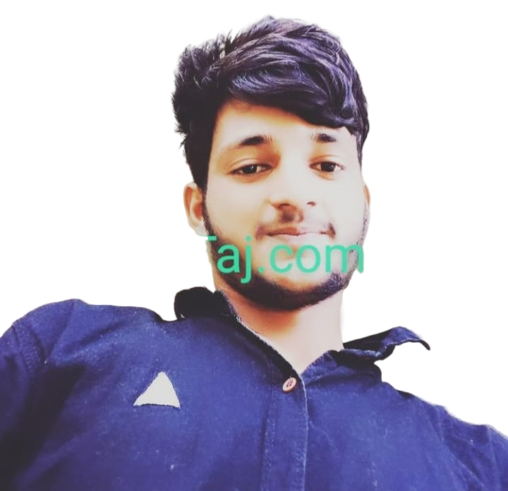
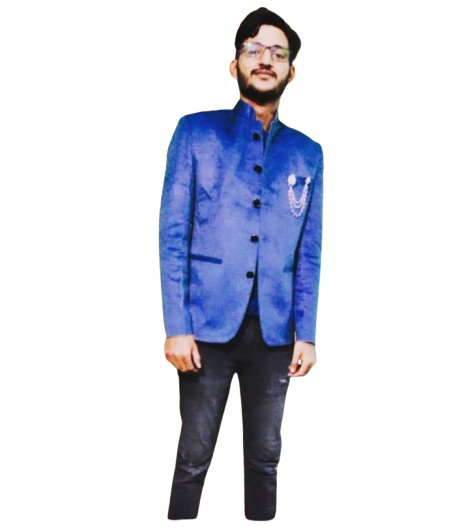
code update

diff --git a/src/component/Contact.jsx b/src/component/Contact.jsx
@@ -1,10 +1,13 @@
 import React, { useState } from 'react'
 import Card from 'react-bootstrap/Card';
-import photo from '../assets/Image1.png'
+import photo from '../assets/Image2.png';
 import { Container, Row, Col } from 'react-bootstrap';
+import { ToastContainer, toast } from 'react-toastify';
+import 'react-toastify/dist/ReactToastify.css';
 import Form from 'react-bootstrap/Form';
 import Button from 'react-bootstrap/Button';
 import '../App.css'
+
 const Contact = () => {
   const[fname,setFname]=useState("");
   const[lname,setLname]=useState("");
@@ -19,58 +22,69 @@ const Contact = () => {
   const handlesubmit=async(e)=>{
     e.preventDefault("");
 
-  const contactdetails={
-    fname,
-    lname,
-    email,
-    password,
-    address1,
-    address2,
-    city,
-    state,
-    zip
-  };
+    const contactdetails={
+      fname,
+      lname,
+      email,
+      password,
+      address1,
+      address2,
+      city,
+      state,
+      zip
+    };
 
-  try{
-    const response = await fetch("http://localhost:5000/submit",{
-      method:"POST",
-      headers: {
-        'Content-Type': 'application/json',
-      },
-      body: JSON.stringify(contactdetails),
-    });
-    if(response.ok){
-      console.log("contact saved");
+    try{
+      const response = await fetch("http://localhost:5000/submit",{
+        method:"POST",
+        headers: {
+          'Content-Type': 'application/json',
+        },
+        body: JSON.stringify(contactdetails),
+      });
+      if(response.ok){
+        toast.success('Contact saved successfully', {
+          position: toast.POSITION.TOP_RIGHT,
+          autoClose: 3000,
+        });
 
-      // for clear form
-      setFname('');
-      setLname('');
-      setEmail('');
-      setPassword('');
-      setAddress1('');
-      setAddress2('');
-      setCity('');
-      setState('');
-      setZip('');
-    } else{
-      console.log("Error saving contact");
+        // Clear form
+        setFname('');
+        setLname('');
+        setEmail('');
+        setPassword('');
+        setAddress1('');
+        setAddress2('');
+        setCity('');
+        setState('');
+        setZip('');
+      } else {
+        toast.error('Error saving contact', {
+          position: toast.POSITION.TOP_RIGHT,
+          autoClose: 3000,
+        });
+      }
     }
-  }
-  catch(error){
-    console.error('Error:', error);
-  }
-};
+    catch(error){
+      console.error('Error:', error);
+      toast.error('Error saving contact', {
+        position: toast.POSITION.TOP_RIGHT,
+        autoClose: 3000,
+      });
+    }
+  };
 
   return (
     <section id="contact" className='bg-dark' style={{ maxWidth: "100%", maxHeight: "100%" }}>
       <Container fluid>
+        <ToastContainer position="top-right" autoClose={3000} />
         <div className='text-danger text-center p-5'>CONTACT</div>
         <div className='text-white text-center mt-1' style={{ fontSize: "45px", fontWeight: "700", fontFamily: "serif" }}>Contact With Me</div>
         <Row className="mt-4">
 
           <Col sm={12} md={5} lg={4}>
             <Card className="card-hover" style={{ width: '23rem', height: "auto", backgroundColor: "#23272b" }}>
-              <Card.Img variant="top" style={{ width: "auto", height: "400px", padding: "15px" }} src={photo} />
+              <Card.Img variant="top" style={{ width: "auto", height: "400px", padding: "20px",borderRadius:"50px"}} src={photo} />
               <Card.Body>
                 <Card.Title className='text-white p-2' style={{fontWeight:"700"}}>MD TAUQUEER MANZAR</Card.Title>
                 <Card.Text className='text-white p-2'>
@@ -179,7 +193,7 @@ const Contact = () => {
               <Form.Group className="mb-4" id="formGridCheckbox">
                 <Form.Check type="checkbox" label="Check me out" />
               </Form.Group>
-
+              
               <Button variant="primary" type="submit" style={{ width: "100%" }}>
                 Submit
               </Button>

diff --git a/src/component/Features.jsx b/src/component/Features.jsx
@@ -33,7 +33,7 @@ const Features = () => {
       id: 4,
       icon: <MdOutlineInstallMobile size={50} className='icon-animation' />,
       title: "Mobile Development",
-      description: 'Mobile development refers to the process of creating software applications that are specifically designed to run on mobile devices.'
+      description: 'Mobile development refers to the process of creatings  software applications that are specifically designed to run on mobile device.'
     },
     {
       id: 5,
@@ -58,9 +58,9 @@ const Features = () => {
             featureData.map(Features => {
               return (
                 <Col sm={12} md={6} lg={4} key={Features.id}>
-                  <Card className="bg-secondary card-hover" style={{ width: '20rem', height: "350px", margin: "7px", padding: "10px", marginLeft: "auto", marginRight: "auto" }}>
+                  <Card className="bg-secondary card-hover" style={{ width: '20rem', height: "350px", margin: "7px", padding: "8px", marginLeft: "auto", marginRight: "auto" }}>
                     <Card.Body
-                      className='text-center m-5 text-danger'> {Features.icon}
+                      className='text-center m-4 text-danger'> {Features.icon}
                       <Card.Title className='text-white fs-3'>{Features.title}</Card.Title>
                       <Card.Text className='text-white'>
                         {Features.description}

diff --git a/Backend/server.js b/Backend/server.js
@@ -2,7 +2,6 @@ const bodyParser = require("body-parser");
 const express=require("express");
 const mongoose=require("mongoose");
 const cors=require("cors");
-const contact =require("./models/contactSchema.js");
 const Contact = require("./models/contactSchema.js");
 
 const app=express();

diff --git a/Backend/models/contactSchema.js b/Backend/models/contactSchema.js
@@ -14,8 +14,7 @@ const userSchema= new mongoose.Schema({
         required:true
     },
     password:{
-        type:String,
-        required:true
+        type:String
     },
     address1:{
         type:String
